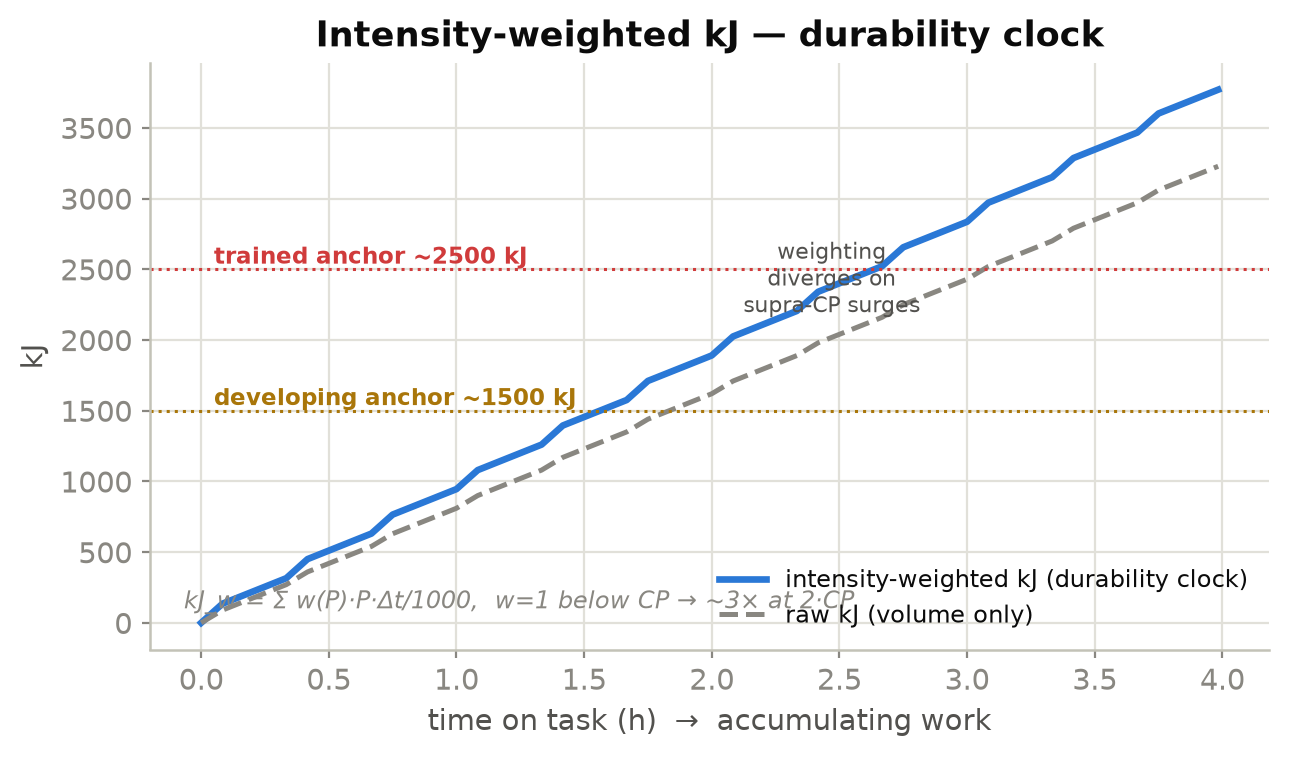
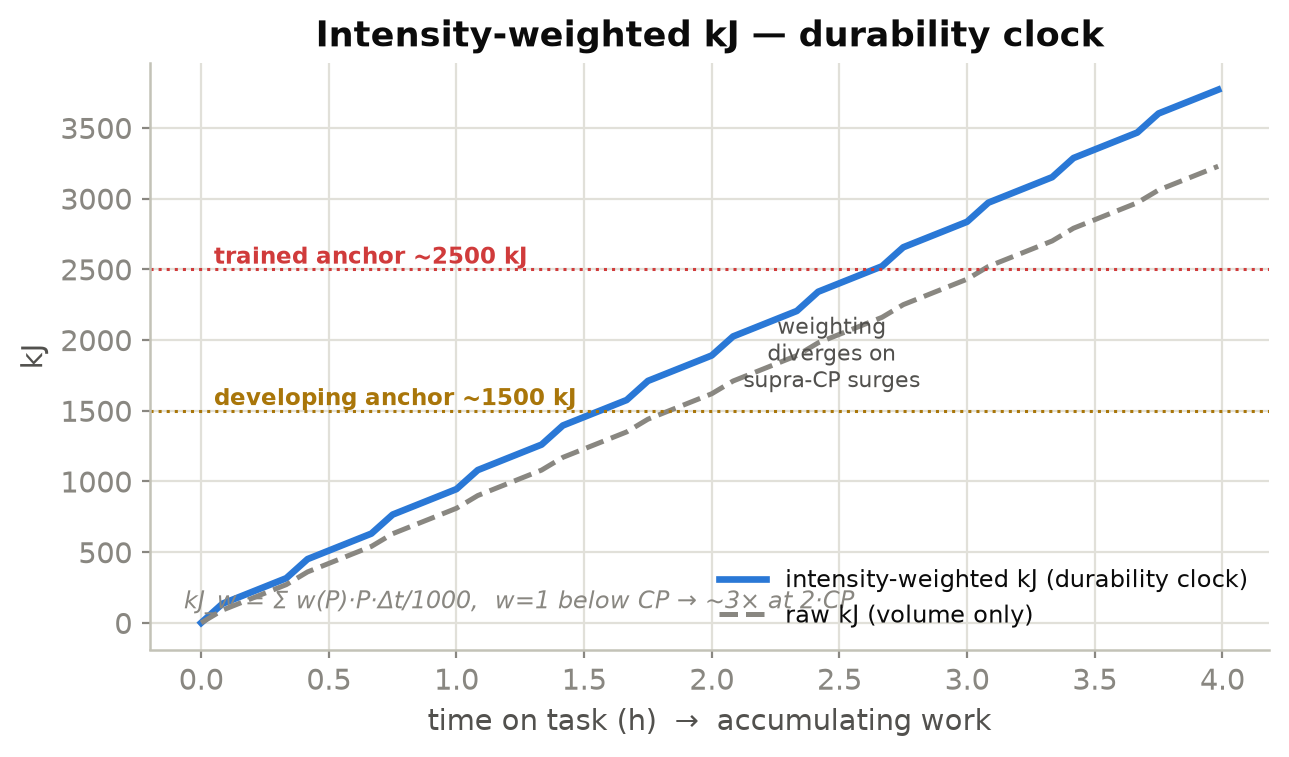
docs: nudge 09_kj divergence annotation clear of the ~2500 kJ anchor line
PR#4 re-review non-blocking nit: the "weighting diverges on supra-CP surges"
note sat on the trained-anchor (~2500 kJ) dotted line. Drop the label into the
divergence gap between the weighted and raw curves (−300 kJ, va-centered) so the
multi-line block clears the anchor. Regenerated 09_kj (svg/png/pdf) and rebuilt
fatiguemeter.pdf; no other figure changed.

Claude-Session: https://claude.ai/code/session_01CxsdWgdAuJakUm6czVw8Q6

Changed region(s): [[0.5586, 0.3038, 0.7137, 0.5165]]

diff --git a/docs/figures/generate_figures.py b/docs/figures/generate_figures.py
@@ -411,8 +411,11 @@ def fig_kj():
     fig, ax = plt.subplots(figsize=(6.6, 3.9))
     ax.plot(ts, wtds, color=BLUE, lw=2.4, ls="-", label="intensity-weighted kJ (durability clock)")
     ax.plot(ts, raws, color=MUTED, lw=1.8, ls="--", label="raw kJ (volume only)")
-    ax.text(ts[-1] * 0.62, (wtds[int(len(ts)*0.62)] + raws[int(len(ts)*0.62)]) / 2,
-            "weighting\ndiverges on\nsupra-CP surges", color=INK2, fontsize=8, ha="center")
+    # Sit the note in the divergence gap but below the ~2500 anchor line so the
+    # multi-line block clears the dotted anchor (PR#4 re-review nit).
+    ax.text(ts[-1] * 0.62, (wtds[int(len(ts)*0.62)] + raws[int(len(ts)*0.62)]) / 2 - 300,
+            "weighting\ndiverges on\nsupra-CP surges", color=INK2, fontsize=8,
+            ha="center", va="center")
     for anch, lbl, c in [(KJ_ANCHOR_LOW, "developing anchor ~1500 kJ", "#a9760a"),
                          (KJ_ANCHOR_HIGH, "trained anchor ~2500 kJ", CRIT)]:
         ax.axhline(anch, color=c, ls=":", lw=1.1)